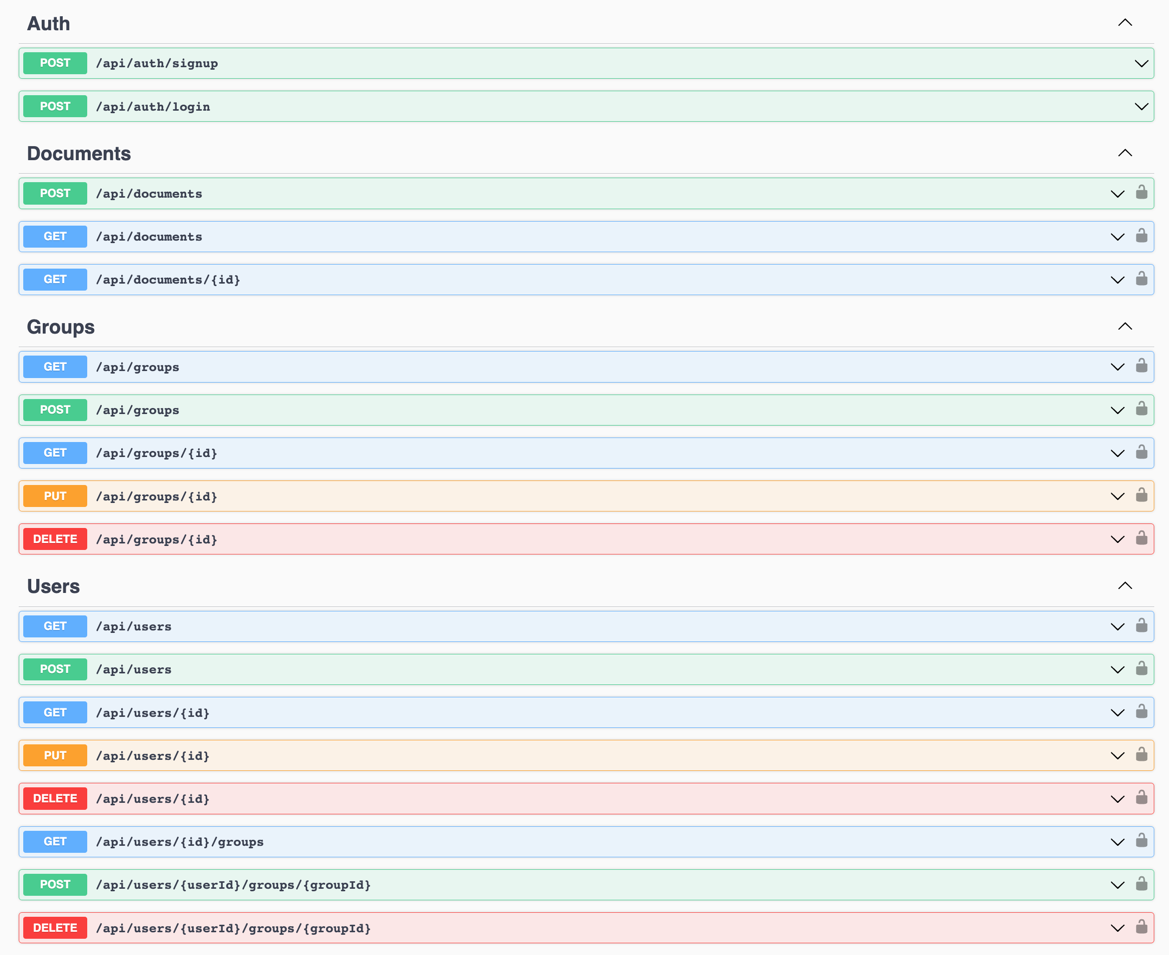
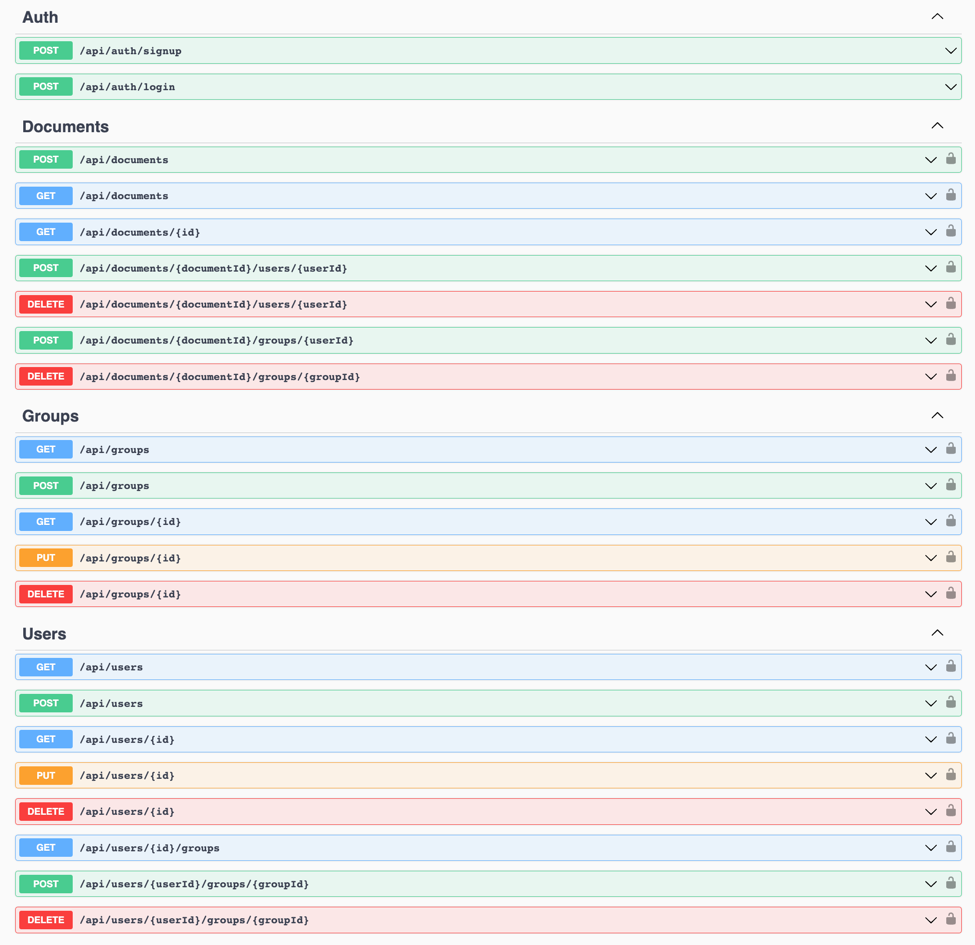
Add and remove permissions tests

Changed region(s): [[0.0, 0.0, 1.0, 1.0]]

diff --git a/DocumentsStore/DocumentsStore.UnitTests/UseCases/Documents/AddDocumentPermissionTests.cs b/DocumentsStore/DocumentsStore.UnitTests/UseCases/Documents/AddDocumentPermissionTests.cs
@@ -1,0 +1,129 @@
+using DocumentsStore.Domain;
+using DocumentsStore.Repositories.Abstractions;
+using DocumentsStore.Repositories.Exceptions;
+using DocumentsStore.UseCases;
+using DocumentsStore.UseCases.Documents;
+using Moq;
+using Moq.AutoMock;
+
+namespace DocumentsStore.UnitTests.UseCases.Documents;
+
+public class AddDocumentPermissionTests
+{
+    private readonly AutoMocker _mocker;
+    private readonly AddDocumentPermission _addDocumentPermission;
+
+    public AddDocumentPermissionTests()
+    {
+        _mocker = new AutoMocker();
+        _addDocumentPermission = _mocker.CreateInstance<AddDocumentPermission>();
+    }
+
+    [Fact]
+    public async Task ExecuteAsync_ReturnsNotFound_WhenDocumentDoesNotExist()
+    {
+        // Arrange
+        var user = new User { Id = 1 };
+        var documentId = 1;
+        var permissionId = 1;
+        var permissionType = PermissionType.User;
+        var cancellationToken = CancellationToken.None;
+
+        _mocker.GetMock<IDocumentsRepository>()
+            .Setup(x => x.GetDocumentByIdAsync(documentId, cancellationToken))
+            .ReturnsAsync((Document)null);
+
+        // Act
+        var result = await _addDocumentPermission.ExecuteAsync(user, documentId, permissionId, permissionType, cancellationToken);
+
+        // Assert
+        Assert.Null(result.Result);
+        Assert.Equal(ErrorType.NotFound, result.Error);
+    }
+
+    [Fact]
+    public async Task ExecuteAsync_ReturnsUnauthorized_WhenUserDoesNotOwnDocument()
+    {
+        // Arrange
+        var user = new User { Id = 1 };
+        var document = new Document { UserId = 2 };
+        var documentId = 1;
+        var permissionId = 1;
+        var permissionType = PermissionType.User;
+        var cancellationToken = CancellationToken.None;
+
+        _mocker.GetMock<IDocumentsRepository>()
+            .Setup(x => x.GetDocumentByIdAsync(documentId, cancellationToken))
+            .ReturnsAsync(document);
+
+        // Act
+        var result = await _addDocumentPermission.ExecuteAsync(user, documentId, permissionId, permissionType, cancellationToken);
+
+        // Assert
+        Assert.Null(result.Result);
+        Assert.Equal(ErrorType.Unauthorized, result.Error);
+    }
+
+    [Theory]
+    [InlineData(PermissionType.Group)]
+    [InlineData(PermissionType.User)]
+    public async Task ExecuteAsync_ReturnsSuccess_WhenPermissionIsAdded(PermissionType permissionType)
+    {
+        // Arrange
+        var user = new User { Id = 1 };
+        var document = new Document { UserId = user.Id };
+        var documentId = 1;
+        var permissionId = 1;
+        var cancellationToken = CancellationToken.None;
+
+        _mocker.GetMock<IDocumentsRepository>()
+            .Setup(x => x.GetDocumentByIdAsync(documentId, cancellationToken))
+            .ReturnsAsync(document);
+
+        _mocker.GetMock<IDocumentsRepository>()
+            .Setup(x => x.AddDocumentUserPermissionAsync(documentId, permissionId, cancellationToken))
+            .Returns(Task.CompletedTask);
+
+        _mocker.GetMock<IDocumentsRepository>()
+            .Setup(x => x.GetDocumentUsersPermissionsAsync(documentId, cancellationToken))
+            .ReturnsAsync(new List<int>());
+
+        _mocker.GetMock<IDocumentsRepository>()
+            .Setup(x => x.GetDocumentGroupsPermissionsAsync(documentId, cancellationToken))
+            .ReturnsAsync(new List<int>());
+
+        // Act
+        var result = await _addDocumentPermission.ExecuteAsync(user, documentId, permissionId, permissionType, cancellationToken);
+
+        // Assert
+        Assert.Equal(document, result.Result);
+    }
+
+    [Fact]
+    public async Task ExecuteAsync_ReturnsBadRequest_WhenPermissionAlreadyExists()
+    {
+        // Arrange
+        var cancellationToken = CancellationToken.None;
+        var documentId = 1;
+        var user = new User { Id = 1 };
+        var permissionId = 1;
+        var type = PermissionType.User;
+
+        _mocker.GetMock<IDocumentsRepository>()
+            .Setup(repo => repo.GetDocumentByIdAsync(documentId, cancellationToken))
+            .ReturnsAsync(new Document { Id = documentId, UserId = user.Id });
+
+        _mocker.GetMock<IDocumentsRepository>()
+            .Setup(repo => repo.AddDocumentUserPermissionAsync(documentId, permissionId, cancellationToken))
+            .ThrowsAsync(new UniqueException());
+
+        // Act
+        var result = await _addDocumentPermission.ExecuteAsync(user, documentId, permissionId, type, cancellationToken);
+
+        // Assert
+        Assert.NotNull(result);
+        Assert.Equal(ErrorType.BadRequest, result.Error);
+        Assert.Equal("This permission already exists", result.ErrorMessage);
+        Assert.Null(result.Result);
+    }
+}

diff --git a/DocumentsStore/DocumentsStore.UnitTests/UseCases/Documents/RemoveDocumentPermissionTests.cs b/DocumentsStore/DocumentsStore.UnitTests/UseCases/Documents/RemoveDocumentPermissionTests.cs
@@ -1,0 +1,101 @@
+using DocumentsStore.Domain;
+using DocumentsStore.Repositories.Abstractions;
+using DocumentsStore.Repositories.Exceptions;
+using DocumentsStore.UseCases;
+using DocumentsStore.UseCases.Documents;
+using Moq;
+using Moq.AutoMock;
+
+namespace DocumentsStore.UnitTests.UseCases.Documents;
+
+public class RemoveDocumentPermissionTests
+{
+    private readonly AutoMocker _mocker;
+    private readonly RemoveDocumentPermission _removeDocumentPermission;
+
+    public RemoveDocumentPermissionTests()
+    {
+        _mocker = new AutoMocker();
+        _removeDocumentPermission = _mocker.CreateInstance<RemoveDocumentPermission>();
+    }
+
+    [Fact]
+    public async Task ExecuteAsync_ReturnsNotFound_WhenDocumentDoesNotExist()
+    {
+        // Arrange
+        var user = new User { Id = 1 };
+        var documentId = 1;
+        var permissionId = 1;
+        var permissionType = PermissionType.User;
+        var cancellationToken = CancellationToken.None;
+
+        _mocker.GetMock<IDocumentsRepository>()
+            .Setup(x => x.GetDocumentByIdAsync(documentId, cancellationToken))
+            .ReturnsAsync((Document)null);
+
+        // Act
+        var result = await _removeDocumentPermission.ExecuteAsync(user, documentId, permissionId, permissionType, cancellationToken);
+
+        // Assert
+        Assert.Null(result.Result);
+        Assert.Equal(ErrorType.NotFound, result.Error);
+    }
+
+    [Fact]
+    public async Task ExecuteAsync_ReturnsUnauthorized_WhenUserDoesNotOwnDocument()
+    {
+        // Arrange
+        var user = new User { Id = 1 };
+        var document = new Document { UserId = 2 };
+        var documentId = 1;
+        var permissionId = 1;
+        var permissionType = PermissionType.User;
+        var cancellationToken = CancellationToken.None;
+
+        _mocker.GetMock<IDocumentsRepository>()
+            .Setup(x => x.GetDocumentByIdAsync(documentId, cancellationToken))
+            .ReturnsAsync(document);
+
+        // Act
+        var result = await _removeDocumentPermission.ExecuteAsync(user, documentId, permissionId, permissionType, cancellationToken);
+
+        // Assert
+        Assert.Null(result.Result);
+        Assert.Equal(ErrorType.Unauthorized, result.Error);
+    }
+
+    [Theory]
+    [InlineData(PermissionType.Group)]
+    [InlineData(PermissionType.User)]
+    public async Task ExecuteAsync_ReturnsSuccess_WhenPermissionIsRemoved(PermissionType permissionType)
+    {
+        // Arrange
+        var user = new User { Id = 1 };
+        var document = new Document { UserId = user.Id };
+        var documentId = 1;
+        var permissionId = 1;
+        var cancellationToken = CancellationToken.None;
+
+        _mocker.GetMock<IDocumentsRepository>()
+            .Setup(x => x.GetDocumentByIdAsync(documentId, cancellationToken))
+            .ReturnsAsync(document);
+
+        _mocker.GetMock<IDocumentsRepository>()
+            .Setup(x => x.RemoveDocumentGroupsPermissionAsync(documentId, permissionId, cancellationToken))
+            .Returns(Task.CompletedTask);
+
+        _mocker.GetMock<IDocumentsRepository>()
+            .Setup(x => x.GetDocumentUsersPermissionsAsync(documentId, cancellationToken))
+            .ReturnsAsync(new List<int>());
+
+        _mocker.GetMock<IDocumentsRepository>()
+            .Setup(x => x.GetDocumentGroupsPermissionsAsync(documentId, cancellationToken))
+            .ReturnsAsync(new List<int>());
+
+        // Act
+        var result = await _removeDocumentPermission.ExecuteAsync(user, documentId, permissionId, permissionType, cancellationToken);
+
+        // Assert
+        Assert.Equal(document, result.Result);
+    }
+}

diff --git a/README.md b/README.md
@@ -34,7 +34,10 @@ Users can have 3 roles:
 - POST /api/documents: Allows authenticated users to upload a new document.
 - GET /api/documents: Allows authenticated users to retrieve a list of documents.
 - GET /api/documents/{id}: Allows authenticated users to retrieve a specific document by ID.
-
+- POST /api/documents/{id}/users/{userId}: Adds a user permission for the specified document by id
+- POST /api/documents/{id}/groups/{groupId}: Adds a group permission for the specified document by id
+- DELETE /api/documents/{id}/users/{userId}: Removes a user permission for the specified document by id
+- DELETE /api/documents/{id}/groups/{groupId}: Removes a group permission for the specified document by id
 ### Groups
 - GET /api/groups: Allows only admin users to retrieve a list of groups.
 - POST /api/groups: Allows only admin users to create a new group.
